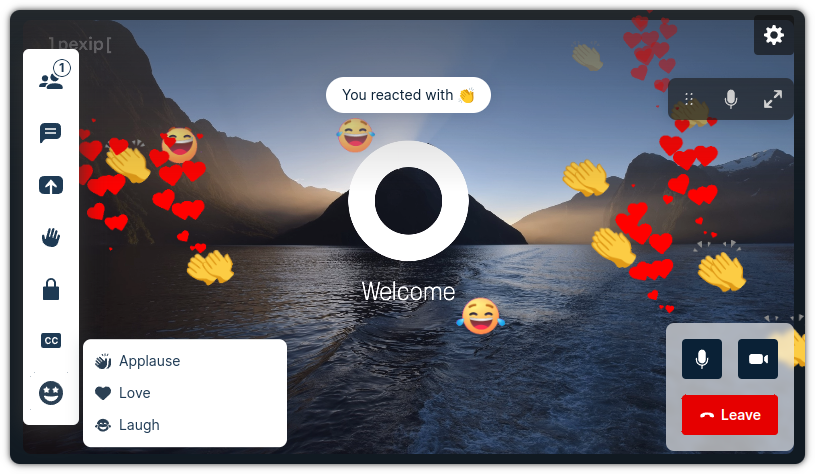
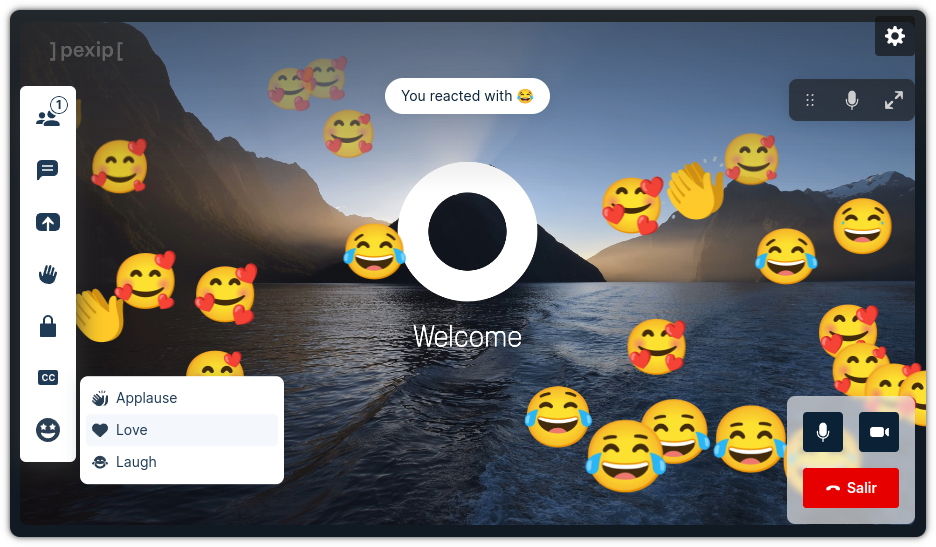
chore: migrate to noto emoji

diff --git a/src/index.ts b/src/index.ts
@@ -82,11 +82,11 @@ const getAsciiIcon = (reaction: string): string => {
 const showReactionGif = (icon: string): void => {
   const basePath = getBasePath()
 
-  const gif = document.createElement('img')
-  gif.src = `${basePath}/images/${icon.toLowerCase()}.gif`
-  gif.className = 'reaction-gif'
-  gif.style.left = `${Math.random() * 100}%`
-  gif.style.bottom = '0'
+  const img = document.createElement('img')
+  img.src = `${basePath}/images/${icon.toLowerCase()}.webp`
+  img.className = 'reaction-animation'
+  img.style.left = `${Math.random() * 100}%`
+  img.style.bottom = '0'
 
   const root = parent.document.querySelector(
     'div[data-testid="in-meeting-video-wrapper"]'
@@ -94,14 +94,14 @@ const showReactionGif = (icon: string): void => {
 
   if (root === null) {
     throw new Error(
-      'Could not find video wrapper to attach the reaction gif to.'
+      'Could not find video wrapper to attach the reaction animation.'
     )
   }
 
-  root.appendChild(gif)
+  root.appendChild(img)
 
   setTimeout(() => {
-    gif.remove()
+    img.remove()
   }, animationDuration)
 }
 

diff --git a/src/Emoji.ts b/src/Emoji.ts
@@ -11,6 +11,9 @@ export const IconAscii = {
   Laugh: '😂'
 }
 
+/**
+ * SVG icons obtained from Font Awesome Free 6.5.1 by @fontawesome - https://fontawesome.com License - https://fontawesome.com/license/free Copyright 2024 Fonticons, Inc.
+ */
 export const IconSVG = {
   Reactions: {
     custom: {

diff --git a/public/style.css b/public/style.css
@@ -1,4 +1,4 @@
-.reaction-gif {
+.reaction-animation {
   position: absolute;
   animation: reactionFade 7s linear;
 }

diff --git a/README.md b/README.md
@@ -4,6 +4,11 @@ This plugin gives the user possibility to share reactions with the rest of
 participants in a conference. We have three different reactions: applause, love
 and laugh.
 
+The animations were obtained from
+[Noto Emoji animations](https://googlefonts.github.io/noto-emoji-animation/)
+which are licensed under
+[CC by 4.0](https://creativecommons.org/licenses/by/4.0/legalcode).
+
 For using this plugin you will need **Pexip Infinity v35** or later.
 
 ## How to use
